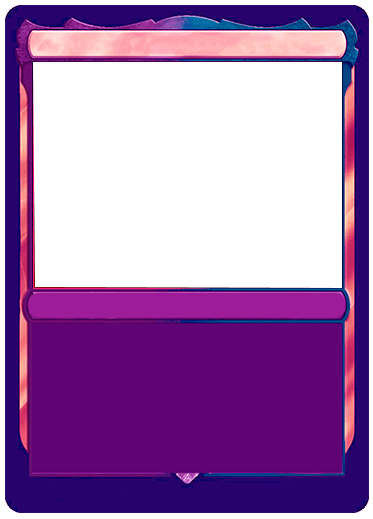
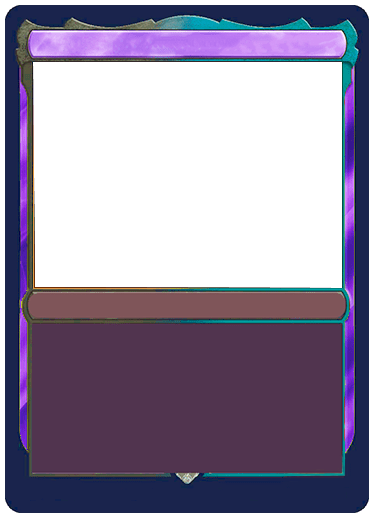
novo visual de trunfo + opcoes de card do jogador

diff --git a/src/pages/telaSelecao/TelaSelecao.tsx b/src/pages/telaSelecao/TelaSelecao.tsx
@@ -1,4 +1,5 @@
 import { useNavigate } from "react-router-dom"
+import { useStoreDispatch } from "../../redux/store/configureStore";
 import IMGbotaoMusicaON from "../../resources/images/icone-som.png";
 import IMGbotaoMusicaOFF from "../../resources/images/icone-som-desligado.png";
 import IMGtituloMenu from "../../resources/images/titulo-fundo-maior.png";
@@ -7,7 +8,9 @@ import IMGCardDisney from "../../resources/images/disney.png";
 import IMGCardAnimes from "../../resources/images/animes.png";
 import IMGCardHerois from "../../resources/images/herois.png";
 import IMGCardMisturado from "../../resources/images/misturado.png";
+import { setPlayerCardType } from "../../redux/slices/playerCardTypeSlice";
 function TelaSelecao() {
+    const dispatch = useStoreDispatch();
     const navigate = useNavigate();
     const linkHandler = (link : string) => {
         navigate(link);
@@ -21,16 +24,16 @@ function TelaSelecao() {
                 <button onClick={(() => { linkHandler('/telainicial') })} className="h-[10vw] w-[10vw] bg-100% mr-[15vw] ml-[2vw] brightness-[0.85] hover:brightness-105" style={{backgroundImage: `url(${IMGbotaoVoltar})`}}></button>
             </header>
             <main className="h-[65%] w-full flex justify-center items-center">
-                <div onClick={(() => { linkHandler('/combate') })} className="w-[23vw] min-h-[60vh] h-[56vh] mx-1.5 bg-100% relative brightness-[0.7] hover:brightness-[1] hover:scale-[1.02] hover:cursor-pointer" style={{backgroundImage: `url(${IMGCardDisney})`}}>
+                <div onClick={(() => { linkHandler('/combate'); dispatch(setPlayerCardType('disney')) })} className="w-[23vw] min-h-[60vh] h-[56vh] mx-1.5 bg-100% relative brightness-[0.7] hover:brightness-[1] hover:scale-[1.02] hover:cursor-pointer" style={{backgroundImage: `url(${IMGCardDisney})`}}>
                     <h4 className="text-[#99B2FF] text-cardsSEL">Disney</h4>
                 </div>
-                <div onClick={(() => { linkHandler('/combate') })} className="w-[23vw] min-h-[60vh] h-[56vh] mx-1.5 bg-100% relative brightness-[0.7] hover:brightness-[1] hover:scale-[1.02] hover:cursor-pointer" style={{backgroundImage: `url(${IMGCardAnimes})`}}>
+                <div onClick={(() => { linkHandler('/combate'); dispatch(setPlayerCardType('animes')) })} className="w-[23vw] min-h-[60vh] h-[56vh] mx-1.5 bg-100% relative brightness-[0.7] hover:brightness-[1] hover:scale-[1.02] hover:cursor-pointer" style={{backgroundImage: `url(${IMGCardAnimes})`}}>
                     <h4 className="text-cardsSEL text-[#FFFFFF]">Animes</h4>
                 </div>
-                <div onClick={(() => { linkHandler('/combate') })} className="w-[23vw] min-h-[60vh] h-[56vh] mx-1.5 bg-100% relative brightness-[0.7] hover:brightness-[1] hover:scale-[1.02] hover:cursor-pointer" style={{backgroundImage: `url(${IMGCardHerois})`}}>
+                <div onClick={(() => { linkHandler('/combate'); dispatch(setPlayerCardType('herois')) })} className="w-[23vw] min-h-[60vh] h-[56vh] mx-1.5 bg-100% relative brightness-[0.7] hover:brightness-[1] hover:scale-[1.02] hover:cursor-pointer" style={{backgroundImage: `url(${IMGCardHerois})`}}>
                     <h4 className="text-cardsSEL heroi-gradiente">Heróis</h4>
                 </div>
-                <div onClick={(() => { linkHandler('/combate') })} className="w-[23vw] min-h-[60vh] h-[56vh] mx-1.5 bg-100% relative brightness-[0.7] hover:brightness-[1] hover:scale-[1.02] hover:cursor-pointer" style={{backgroundImage: `url(${IMGCardMisturado})`}}>
+                <div onClick={(() => { linkHandler('/combate'); dispatch(setPlayerCardType('aleatorio')) })} className="w-[23vw] min-h-[60vh] h-[56vh] mx-1.5 bg-100% relative brightness-[0.7] hover:brightness-[1] hover:scale-[1.02] hover:cursor-pointer" style={{backgroundImage: `url(${IMGCardMisturado})`}}>
                     <h4 className="text-cardsSEL text-[#D6A96B]">Misturado</h4>
                 </div>
             </main>

diff --git a/src/components/botaoGerarCards/BotaoGerarCards.tsx b/src/components/botaoGerarCards/BotaoGerarCards.tsx
@@ -1,13 +1,15 @@
 import { BotaoGerarCardsPropsType, CardType } from "../../types/types";
 import IMGtituloMenu from "../../resources/images/titulo-fundo-maior.png";
 import { useState } from "react";
-import { useDispatch } from "react-redux";
+import { useDispatch, useSelector } from "react-redux";
 import { setTimeJogador, setTimeInimigo } from "../../redux/slices/setCardsSlice";
 import gerarCardDisney from "../../requests/temasCards/gerarCardDisney";
 import gerarCardsAPI from "../../requests/gerarCardsAPI";
+import { RootState } from "../../redux/store/configureStore";
 
 function BotaoGerarCards(props : BotaoGerarCardsPropsType) {
     const dispatch = useDispatch();
+    const { playerCardType } = useSelector((state : RootState) => state.playerCardType);
     const gerarCards = (async () => {
         if(props.texto === "Gerar Inimigos"){
             const cardsGerados = await gerarCardsAPI("aleatorio", "inimigo");
@@ -15,7 +17,7 @@ function BotaoGerarCards(props : BotaoGerarCardsPropsType) {
             console.log(cardsGerados)
         }
         else{
-            const cardsGerados = await gerarCardsAPI("aleatorio", "aliado");
+            const cardsGerados = await gerarCardsAPI(playerCardType, "aliado");
             dispatch(setTimeJogador(cardsGerados));
             console.log(cardsGerados)
         }

diff --git a/src/redux/store/configureStore.ts b/src/redux/store/configureStore.ts
@@ -1,13 +1,34 @@
 import { configureStore } from "@reduxjs/toolkit";
+import { persistReducer, persistStore } from "redux-persist";
+import { useDispatch } from "react-redux";
+import storageSession from "redux-persist/lib/storage/session";
 import setCardsReducer from "../slices/setCardsSlice";
 import setModoReducer from "../slices/setModoSlice";
 import infosCombateReducer from "../slices/infosCombateSlice";
+import playerCardTypeSliceReducer from "../slices/playerCardTypeSlice";
+
+const playerCardTypeConfig = {
+    key: 'playerCardType',
+    storage : storageSession
+};
+
+const playerCardTypeReducer = persistReducer(playerCardTypeConfig, playerCardTypeSliceReducer);
+
 const store = configureStore({
     reducer:{
         setCards: setCardsReducer,
         setModo: setModoReducer,
         setInfosCombate: infosCombateReducer,
-    }
+        playerCardType: playerCardTypeReducer
+    },
+    middleware: (getDefaultMiddleware) => 
+        getDefaultMiddleware({
+            serializableCheck: false,
+        })
 });
+const persistor = persistStore(store);
 export type RootState = ReturnType<typeof store.getState>;
+export type DefaultStore = typeof store.dispatch;
+export const useStoreDispatch: () => DefaultStore = useDispatch;
+export { store, persistor };
 export default store;

diff --git a/src/redux/slices/playerCardTypeSlice.ts b/src/redux/slices/playerCardTypeSlice.ts
@@ -1,0 +1,19 @@
+import { createSlice } from "@reduxjs/toolkit";
+import { PlayerCardType } from "../../types/types";
+
+const initialState : PlayerCardType = {
+    playerCardType: 'aleatorio'
+};
+
+export const playerCardTypeSlice = createSlice({
+    name: 'playerCardType',
+    initialState,
+    reducers: {
+        setPlayerCardType: (state, action) => {
+            state.playerCardType = action.payload;
+        }
+    }
+});
+
+export const { setPlayerCardType } = playerCardTypeSlice.actions;
+export default playerCardTypeSlice.reducer;

diff --git a/src/types/types.ts b/src/types/types.ts
@@ -39,3 +39,6 @@ export interface InfoCardCombateType {
 export interface CombateInfosType {
     infosAtacante: InfoCardCombateType;
 }
+export interface PlayerCardType {
+    playerCardType : 'disney' | 'herois' | 'animes' | 'aleatorio'
+};
